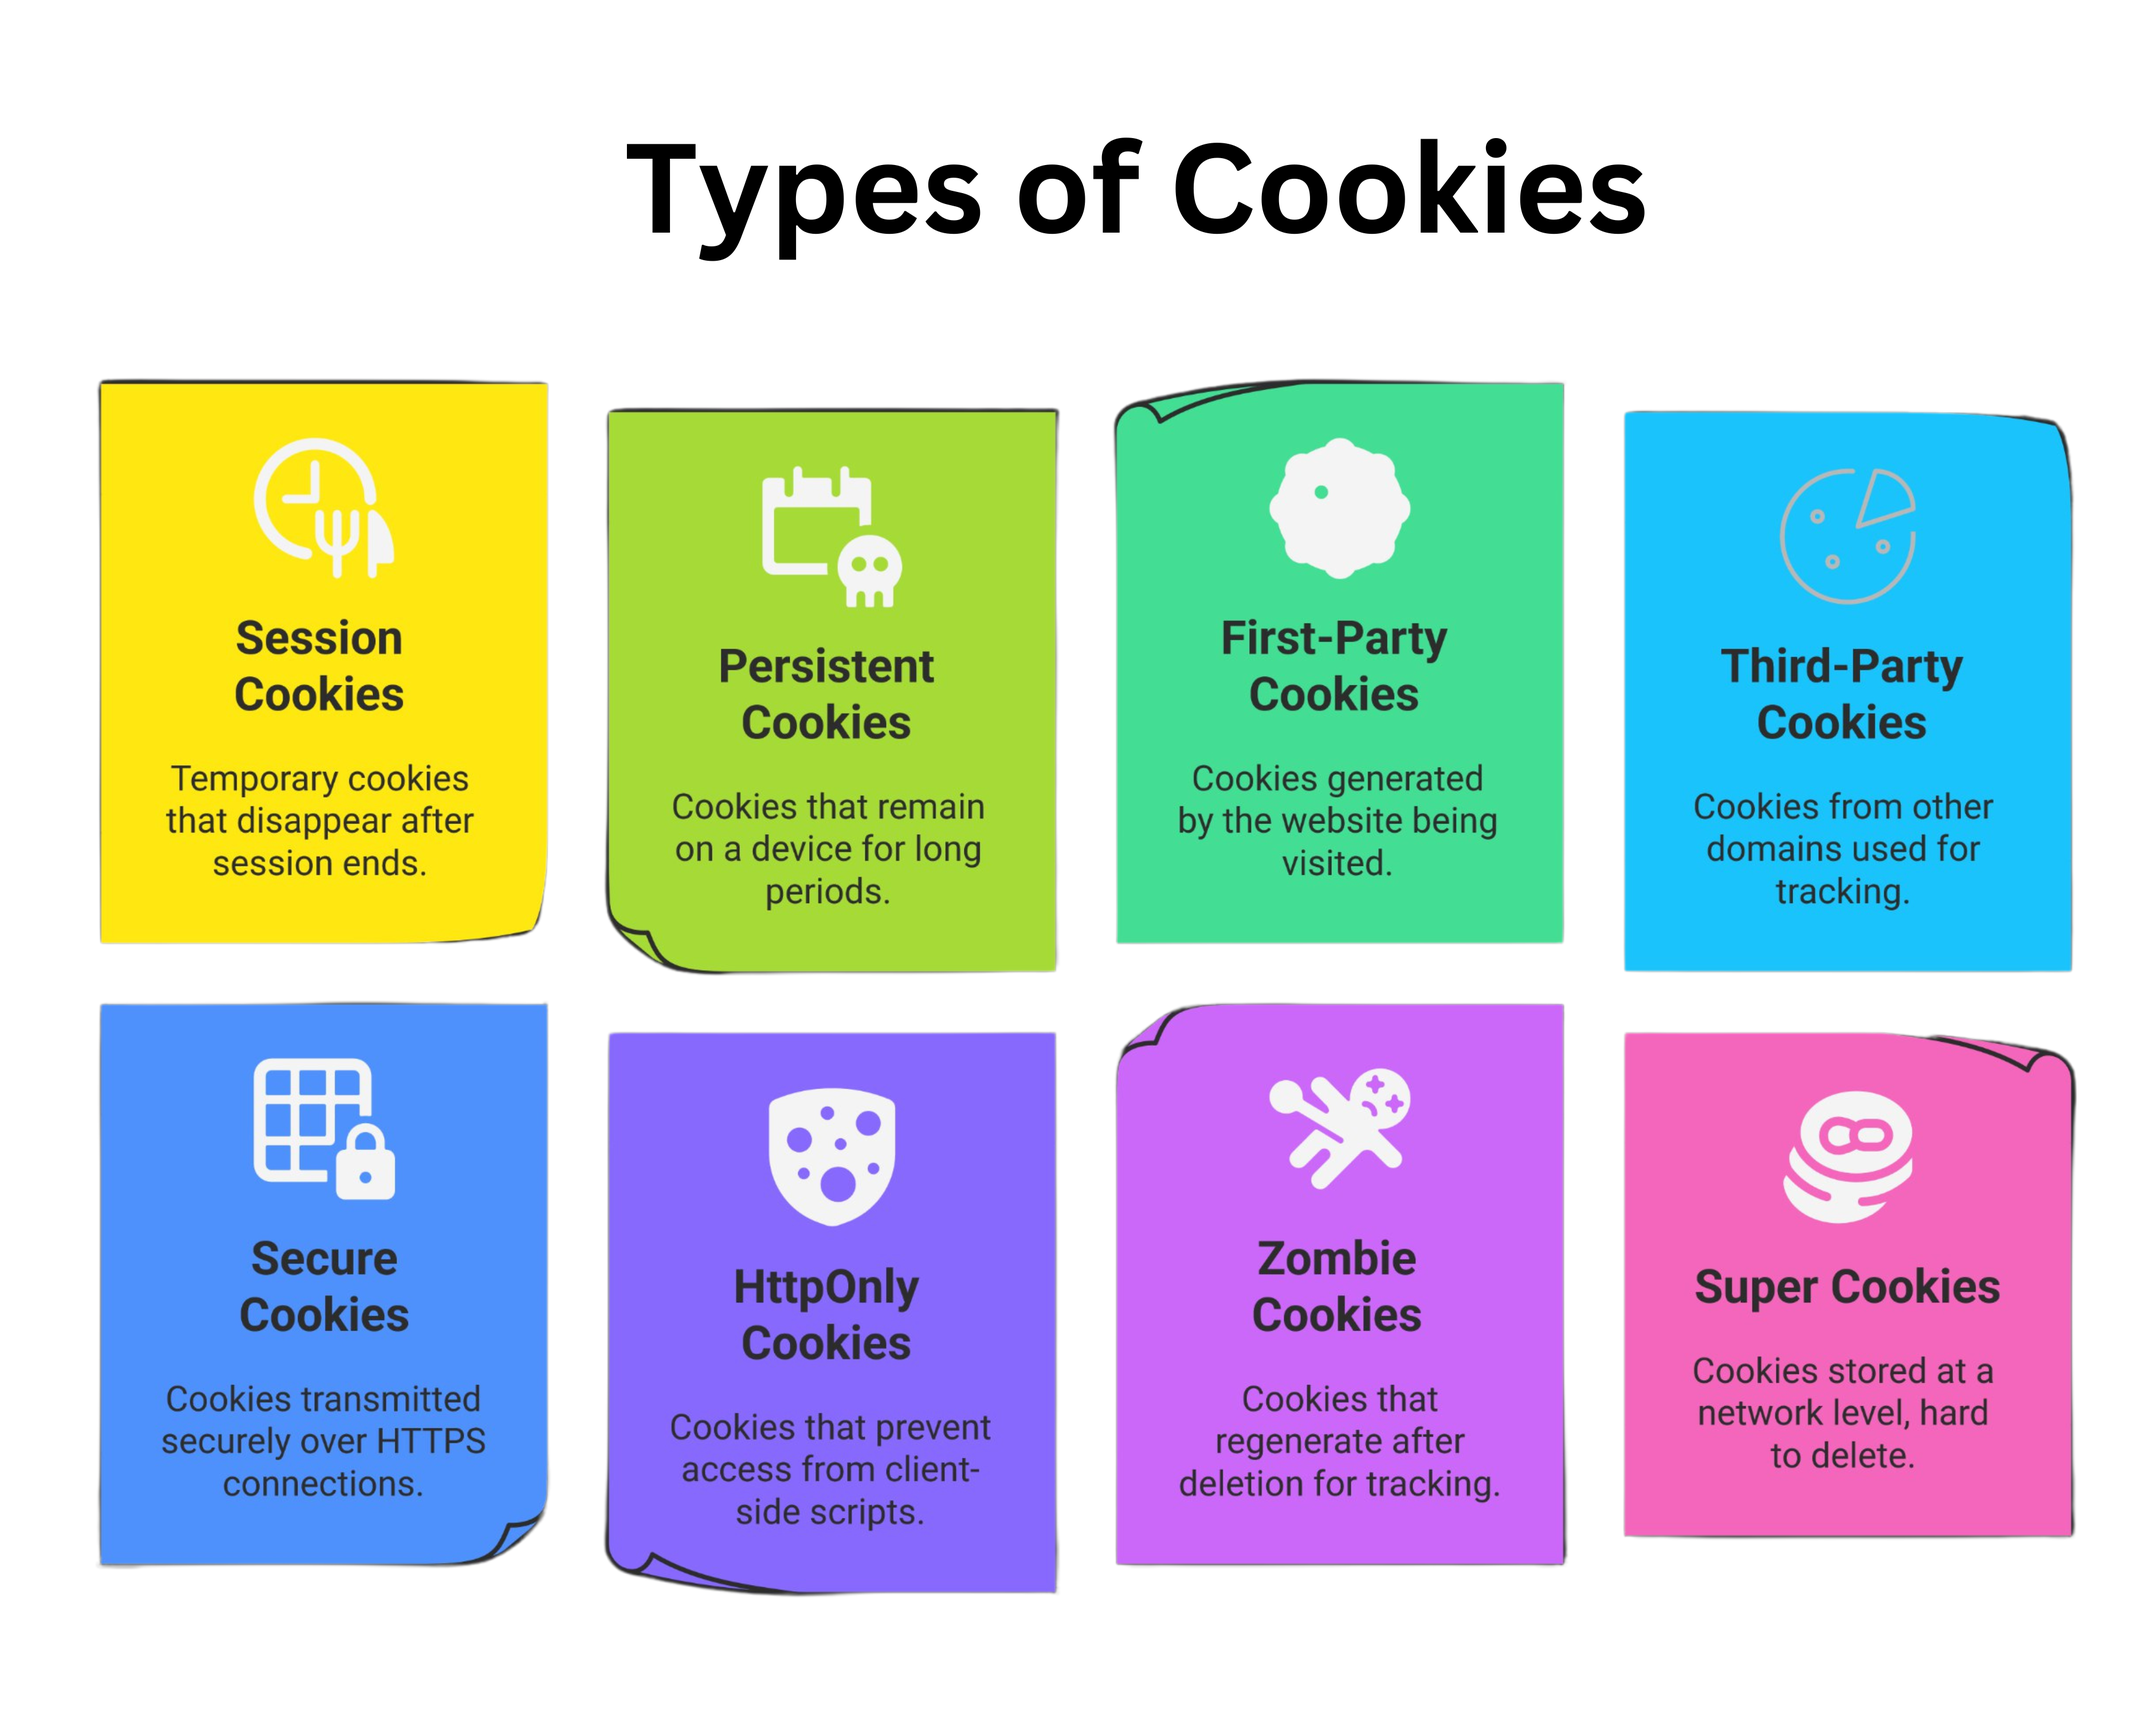
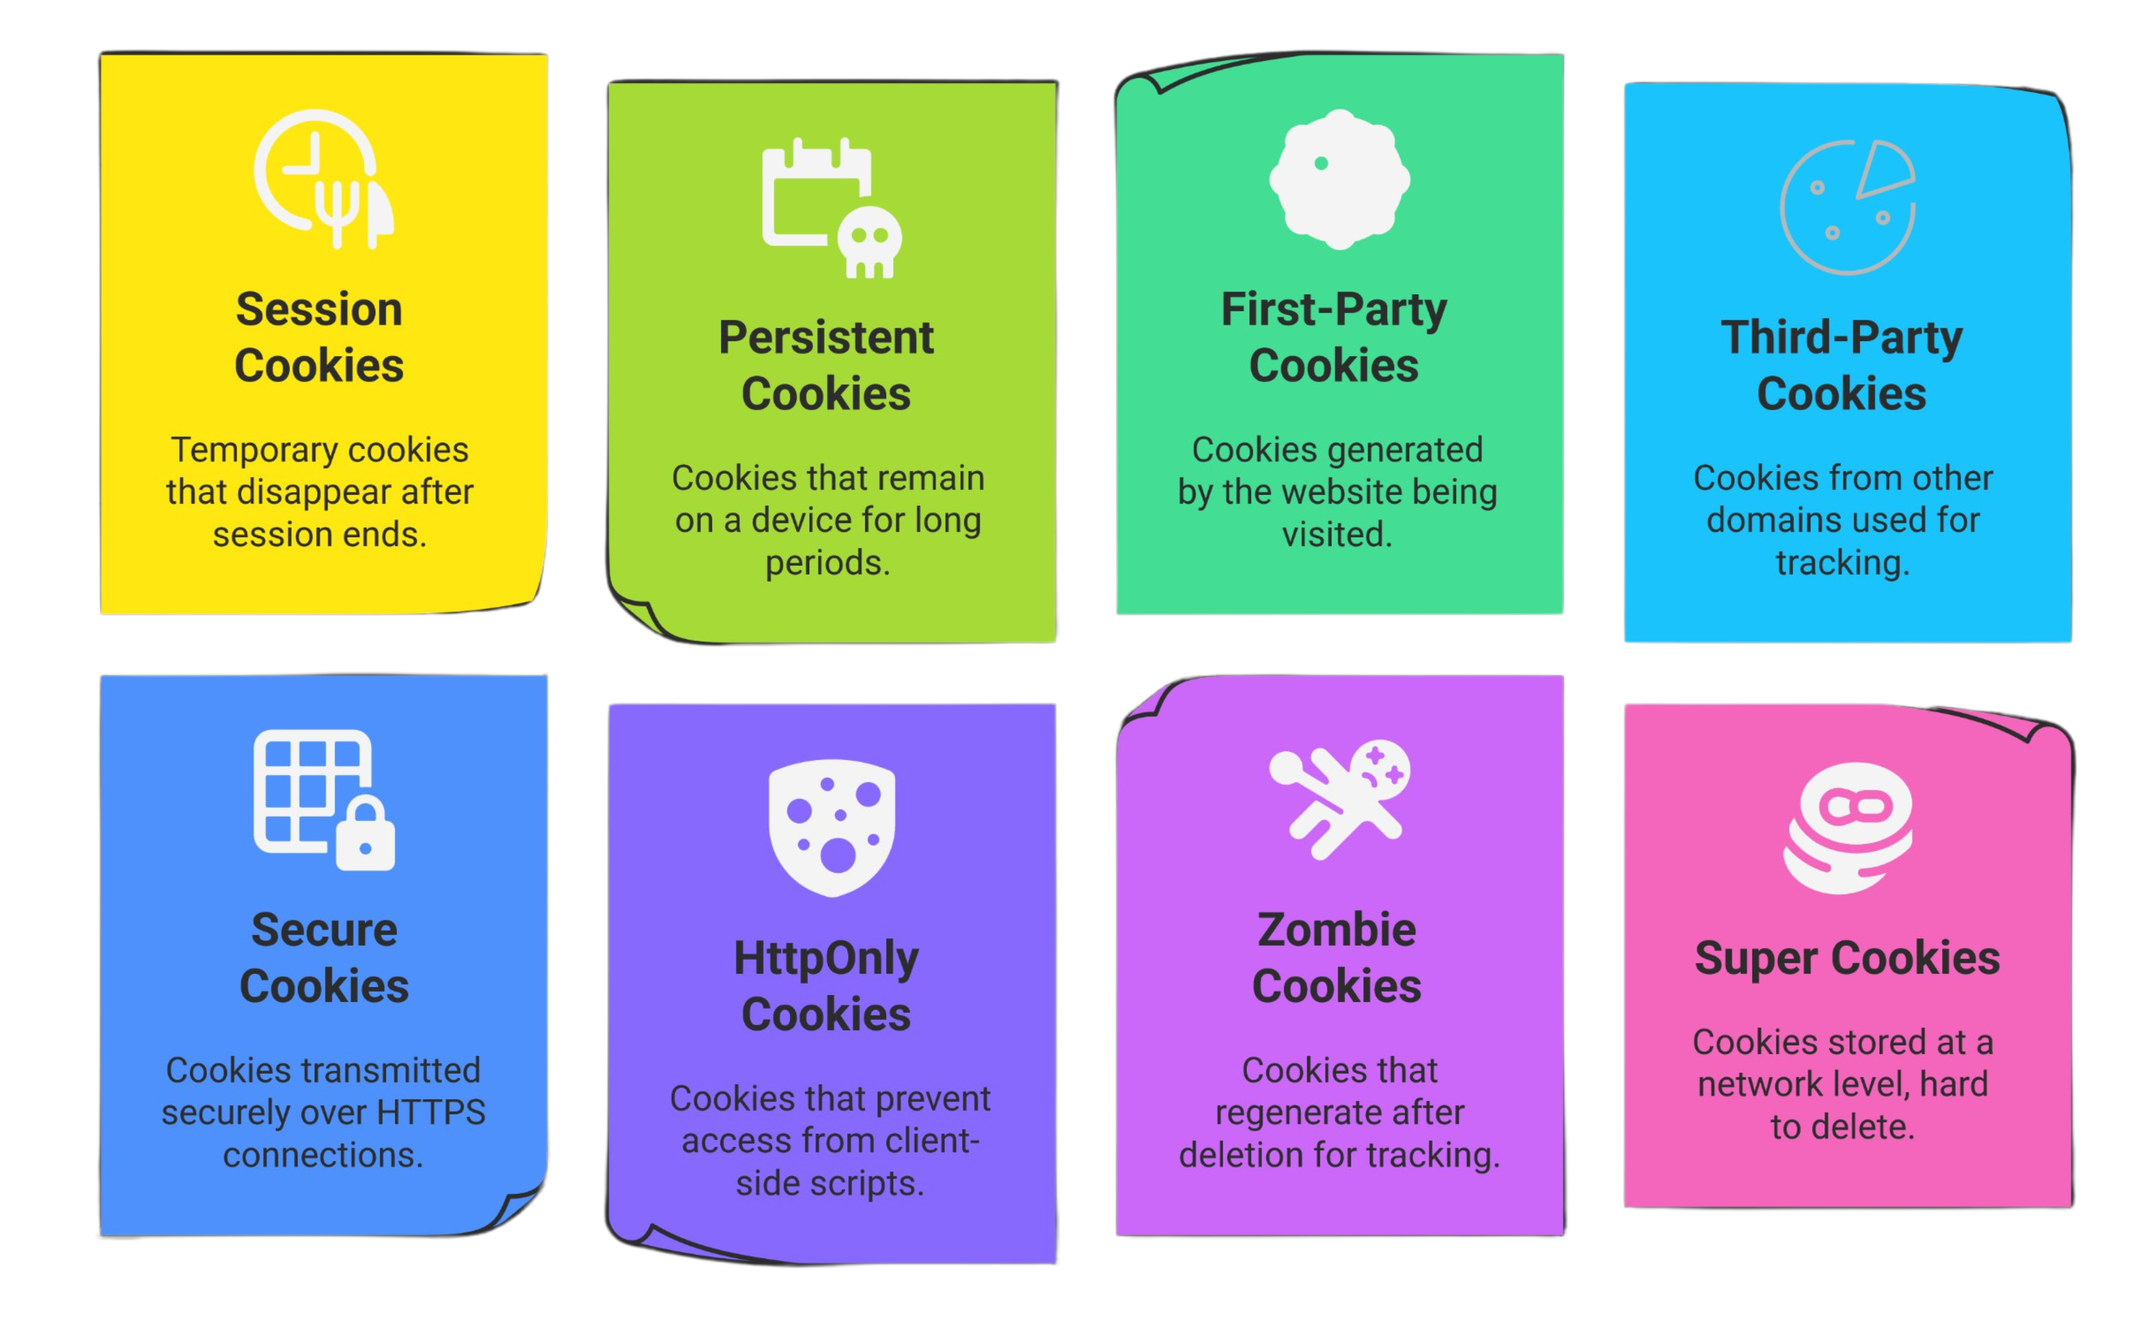
Añadido generador de títulos de chat con LLM y mostrar imagenes del corpues en el chat

diff --git a/streamlit_app/ui/chat_interface.py b/streamlit_app/ui/chat_interface.py
@@ -32,6 +32,50 @@ SUGGESTIONS = [
 ]
 
 
+# ── Content Rendering (Multi-modal) ───────────────────────────────────────────
+
+import re
+import os
+
+def render_image(img_filename: str):
+    """Renderiza una imagen individual del corpus."""
+    img_path = os.path.join("corpus", "images", img_filename.strip())
+    if os.path.exists(img_path):
+        st.image(
+            img_path, 
+            caption=f"{img_filename}", 
+            width="stretch"
+        )
+    else:
+        st.caption(f"🖼 _(Imagen no encontrada: {img_filename})_")
+
+def render_assistant_multimodal(content: str, steps: list = None):
+    """
+    Renderiza el contenido del asistente y, proactivamente, 
+    una galería de imágenes encontradas en sus trazas.
+    """
+    # 1. Texto principal
+    st.markdown(content)
+
+    # 2. Galería de imágenes proactivas
+    if steps:
+        found_images = []
+        for step in steps:
+            if step["type"] == "tool_return":
+                matches = re.findall(r"\[IMAGE:\s*(.*?)\]", str(step["content"]))
+                for m in matches:
+                    if m not in found_images and f"[IMAGE: {m}]" not in (content or ""):
+                        found_images.append(m)
+        
+        # Renderizar en filas de hasta 3 imágenes (33% de ancho cada una)
+        for i in range(0, len(found_images), 3):
+            batch = found_images[i : i + 3]
+            cols = st.columns(3) 
+            for idx, img_name in enumerate(batch):
+                with cols[idx]:
+                    render_image(img_name)
+
+
 # ── Helpers para el agente ────────────────────────────────────────────────────
 
 def _run_agent(question: str, history: list) -> tuple:
@@ -91,7 +135,10 @@ def render_chat_interface():
             role = msg["role"]
             avatar = "streamlit_app/assets/agent_avatar.png" if role == "assistant" else "streamlit_app/assets/user_avatar.png"
             with st.chat_message(role, avatar=avatar):
-                st.markdown(msg["content"])
+                if role == "assistant":
+                    render_assistant_multimodal(msg["content"], msg.get("steps"))
+                else:
+                    st.markdown(msg["content"])
 
                 # Fuentes
                 if msg.get("sources"):
@@ -189,9 +236,12 @@ def _stream_agent_response(question: str, prior_messages: list):
             placeholder.markdown(displayed + "▌")
             time.sleep(0.012)
         placeholder.markdown(answer)
+        # Usamos la lógica multimodal para la respuesta final
+        with st.container():
+            render_assistant_multimodal(answer, steps)
     else:
-        # Mostrar de golpe
-        placeholder.markdown(answer)
+        # Mostrar de golpe con multimodal
+        render_assistant_multimodal(answer, steps)
 
     # Fuentes
     if sources:

diff --git a/streamlit_app/utils/summarize_title.py b/streamlit_app/utils/summarize_title.py
@@ -1,0 +1,24 @@
+import os
+from groq import Groq
+
+def generate_chat_title(text: str) -> str:
+    """Genera un título corto y descriptivo para el chat usando Llama 3.1-8B."""
+    try:
+        client = Groq(api_key=os.getenv("GROQ_KEY"))
+        completion = client.chat.completions.create(
+            model="llama-3.1-8b-instant",
+            messages=[
+                {"role": "system", "content": "Eres un experto en micro-resúmenes. Resume la pregunta del usuario en un título de MÁXIMO 5 palabras. Prohibido usar más de una línea. Prohibido usar saltos de línea. Responde únicamente con el texto del título."},
+                {"role": "user", "content": text}
+            ],
+            max_tokens=25,
+            temperature=0.3
+        )
+        title = completion.choices[0].message.content.strip()
+        # Limpieza de saltos de línea y formateo
+        title = title.replace("\n", " ").replace("\r", " ")
+        title = title.replace('"', '').replace("'", "").replace(".", "")
+        return " ".join(title.split()) # Elimina espacios múltiples
+    except Exception:
+        # Fallback seguro: recorte tradicional
+        return text[:42] + ("..." if len(text) > 42 else "")

diff --git a/streamlit_app/utils/session.py b/streamlit_app/utils/session.py
@@ -1,7 +1,7 @@
 import streamlit as st
 import uuid
 from datetime import datetime
-
+from .summarize_title import generate_chat_title
 
 def initialize_session():
     """Initialize all session state variables."""
@@ -64,9 +64,9 @@ def add_message(role: str, content: str, sources: list = None, steps: list = Non
         "steps": steps or [],
         "timestamp": datetime.now(),
     })
-    # Auto-title: use first user message (trimmed)
+    # Auto-title: use LLM to summarize first user message
     if role == "user" and conv["title"] == "Nueva conversación":
-        title = content[:42] + ("…" if len(content) > 42 else "")
+        title = generate_chat_title(content)
         conv["title"] = title
 
 
